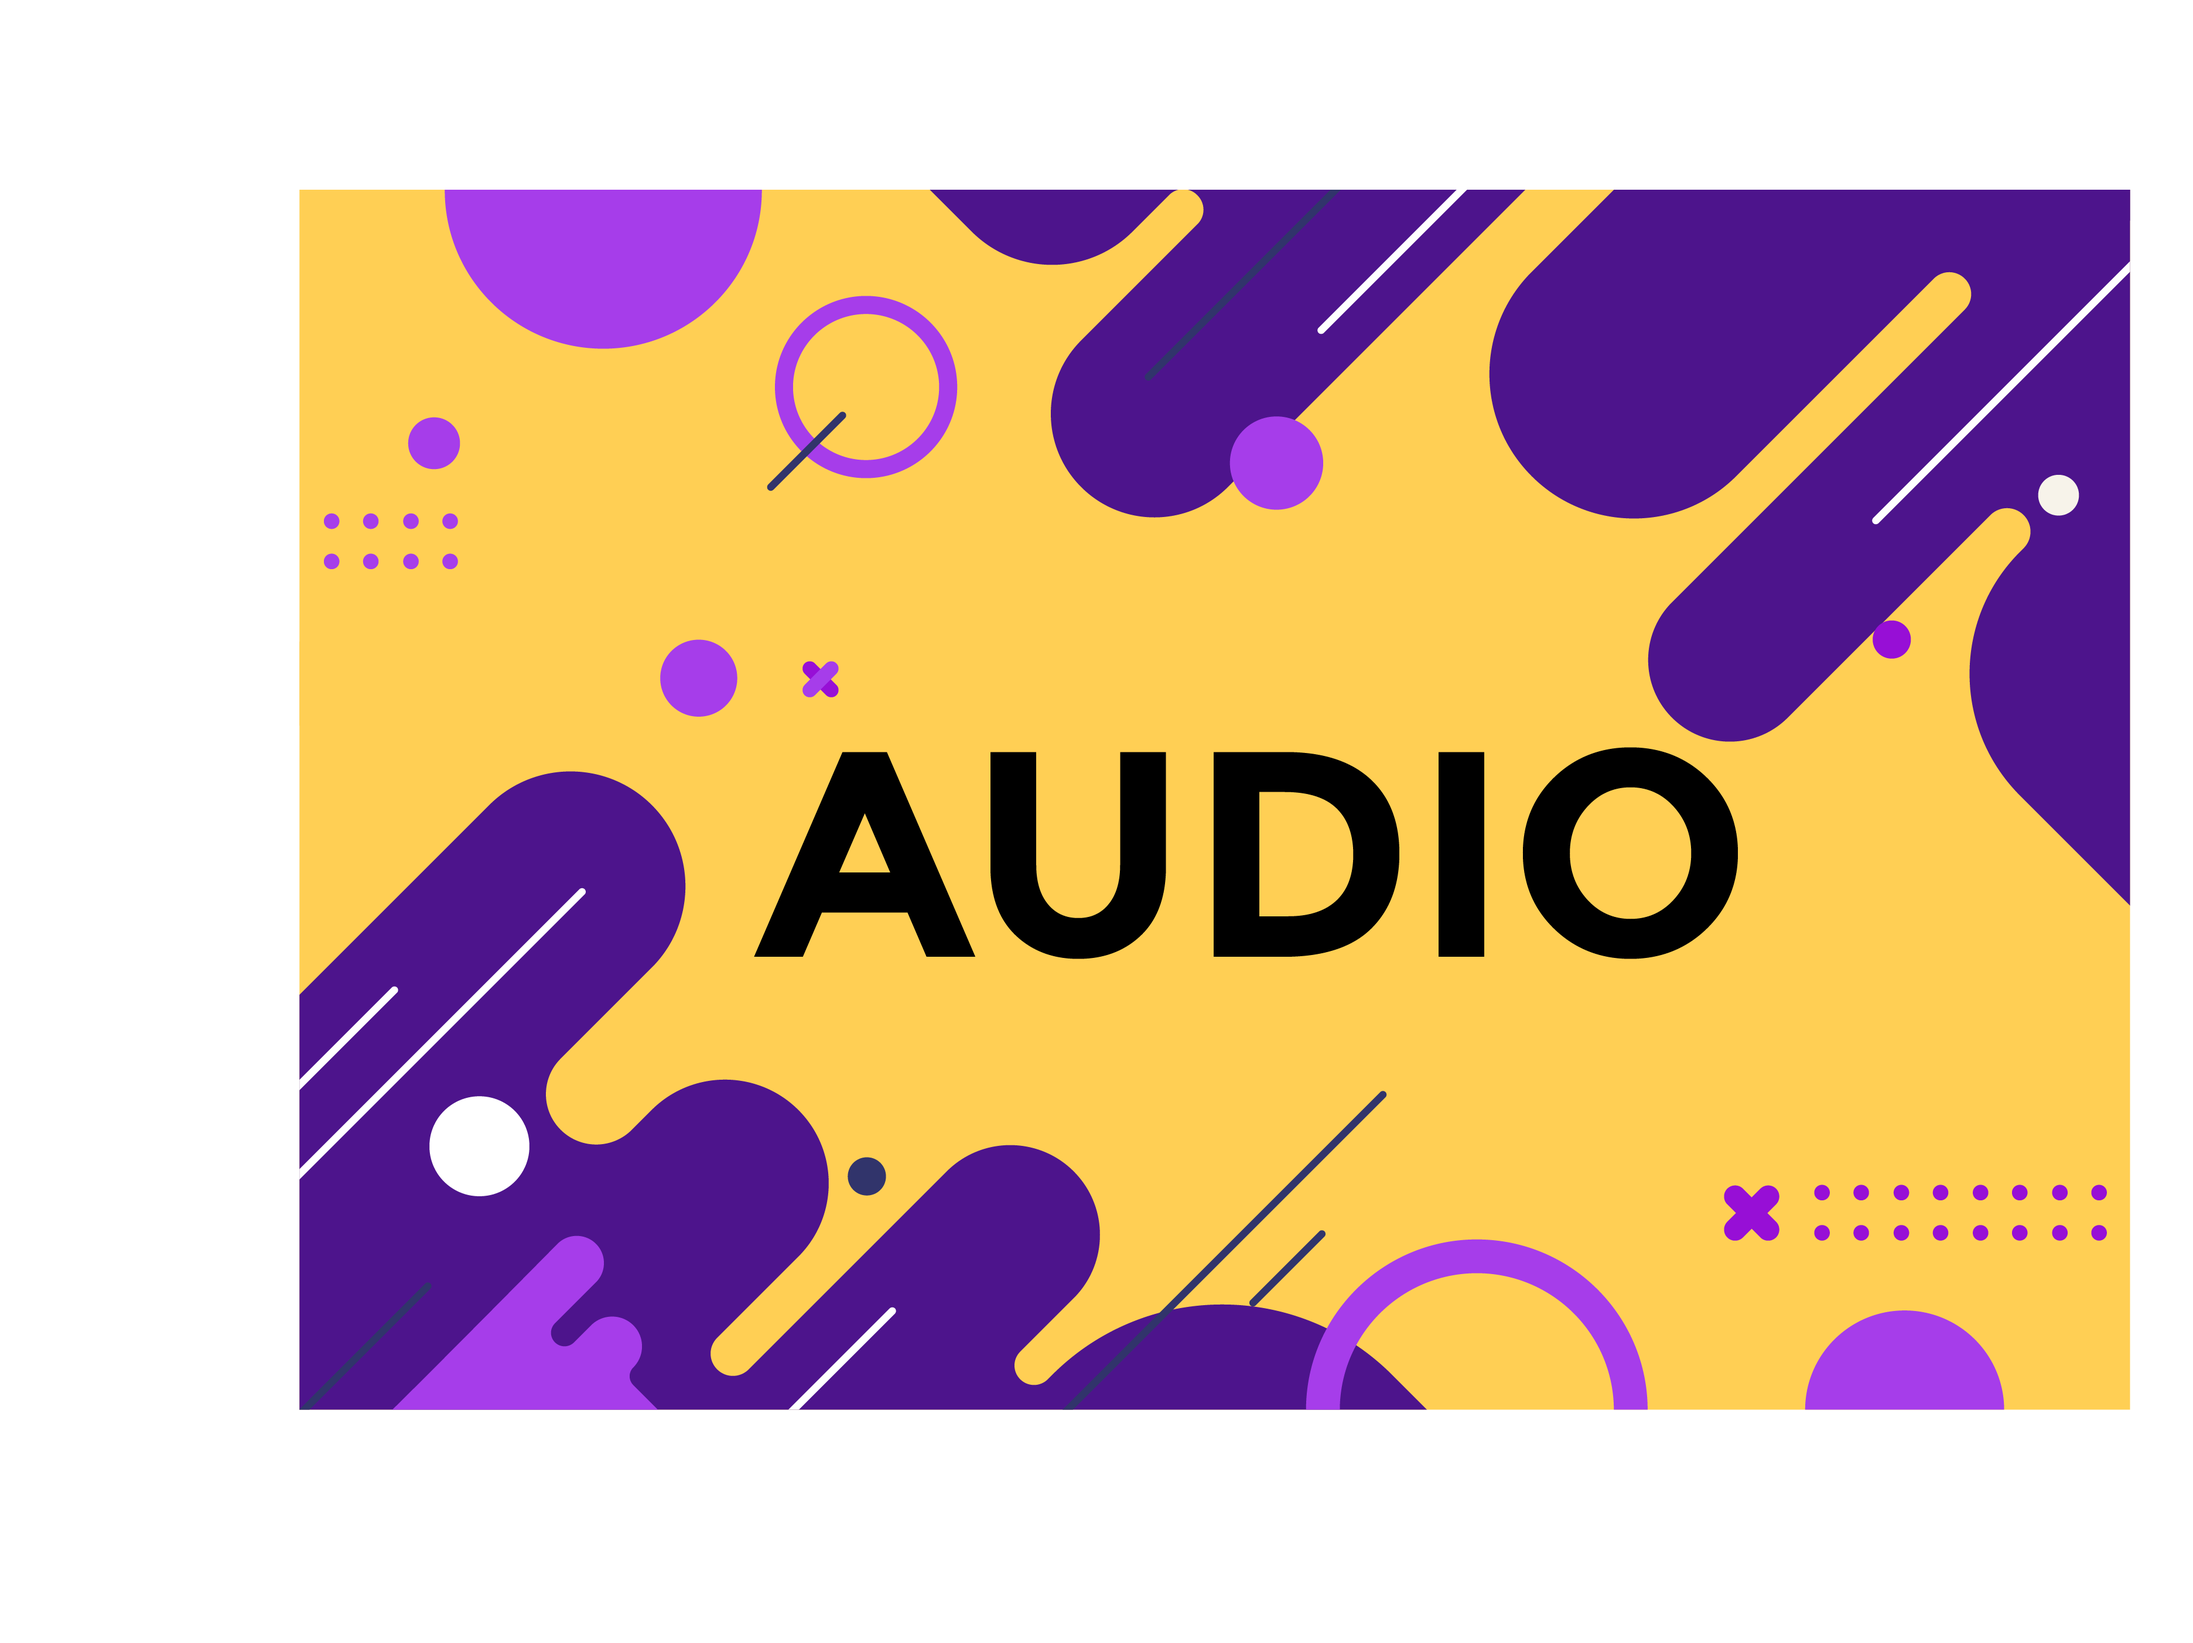
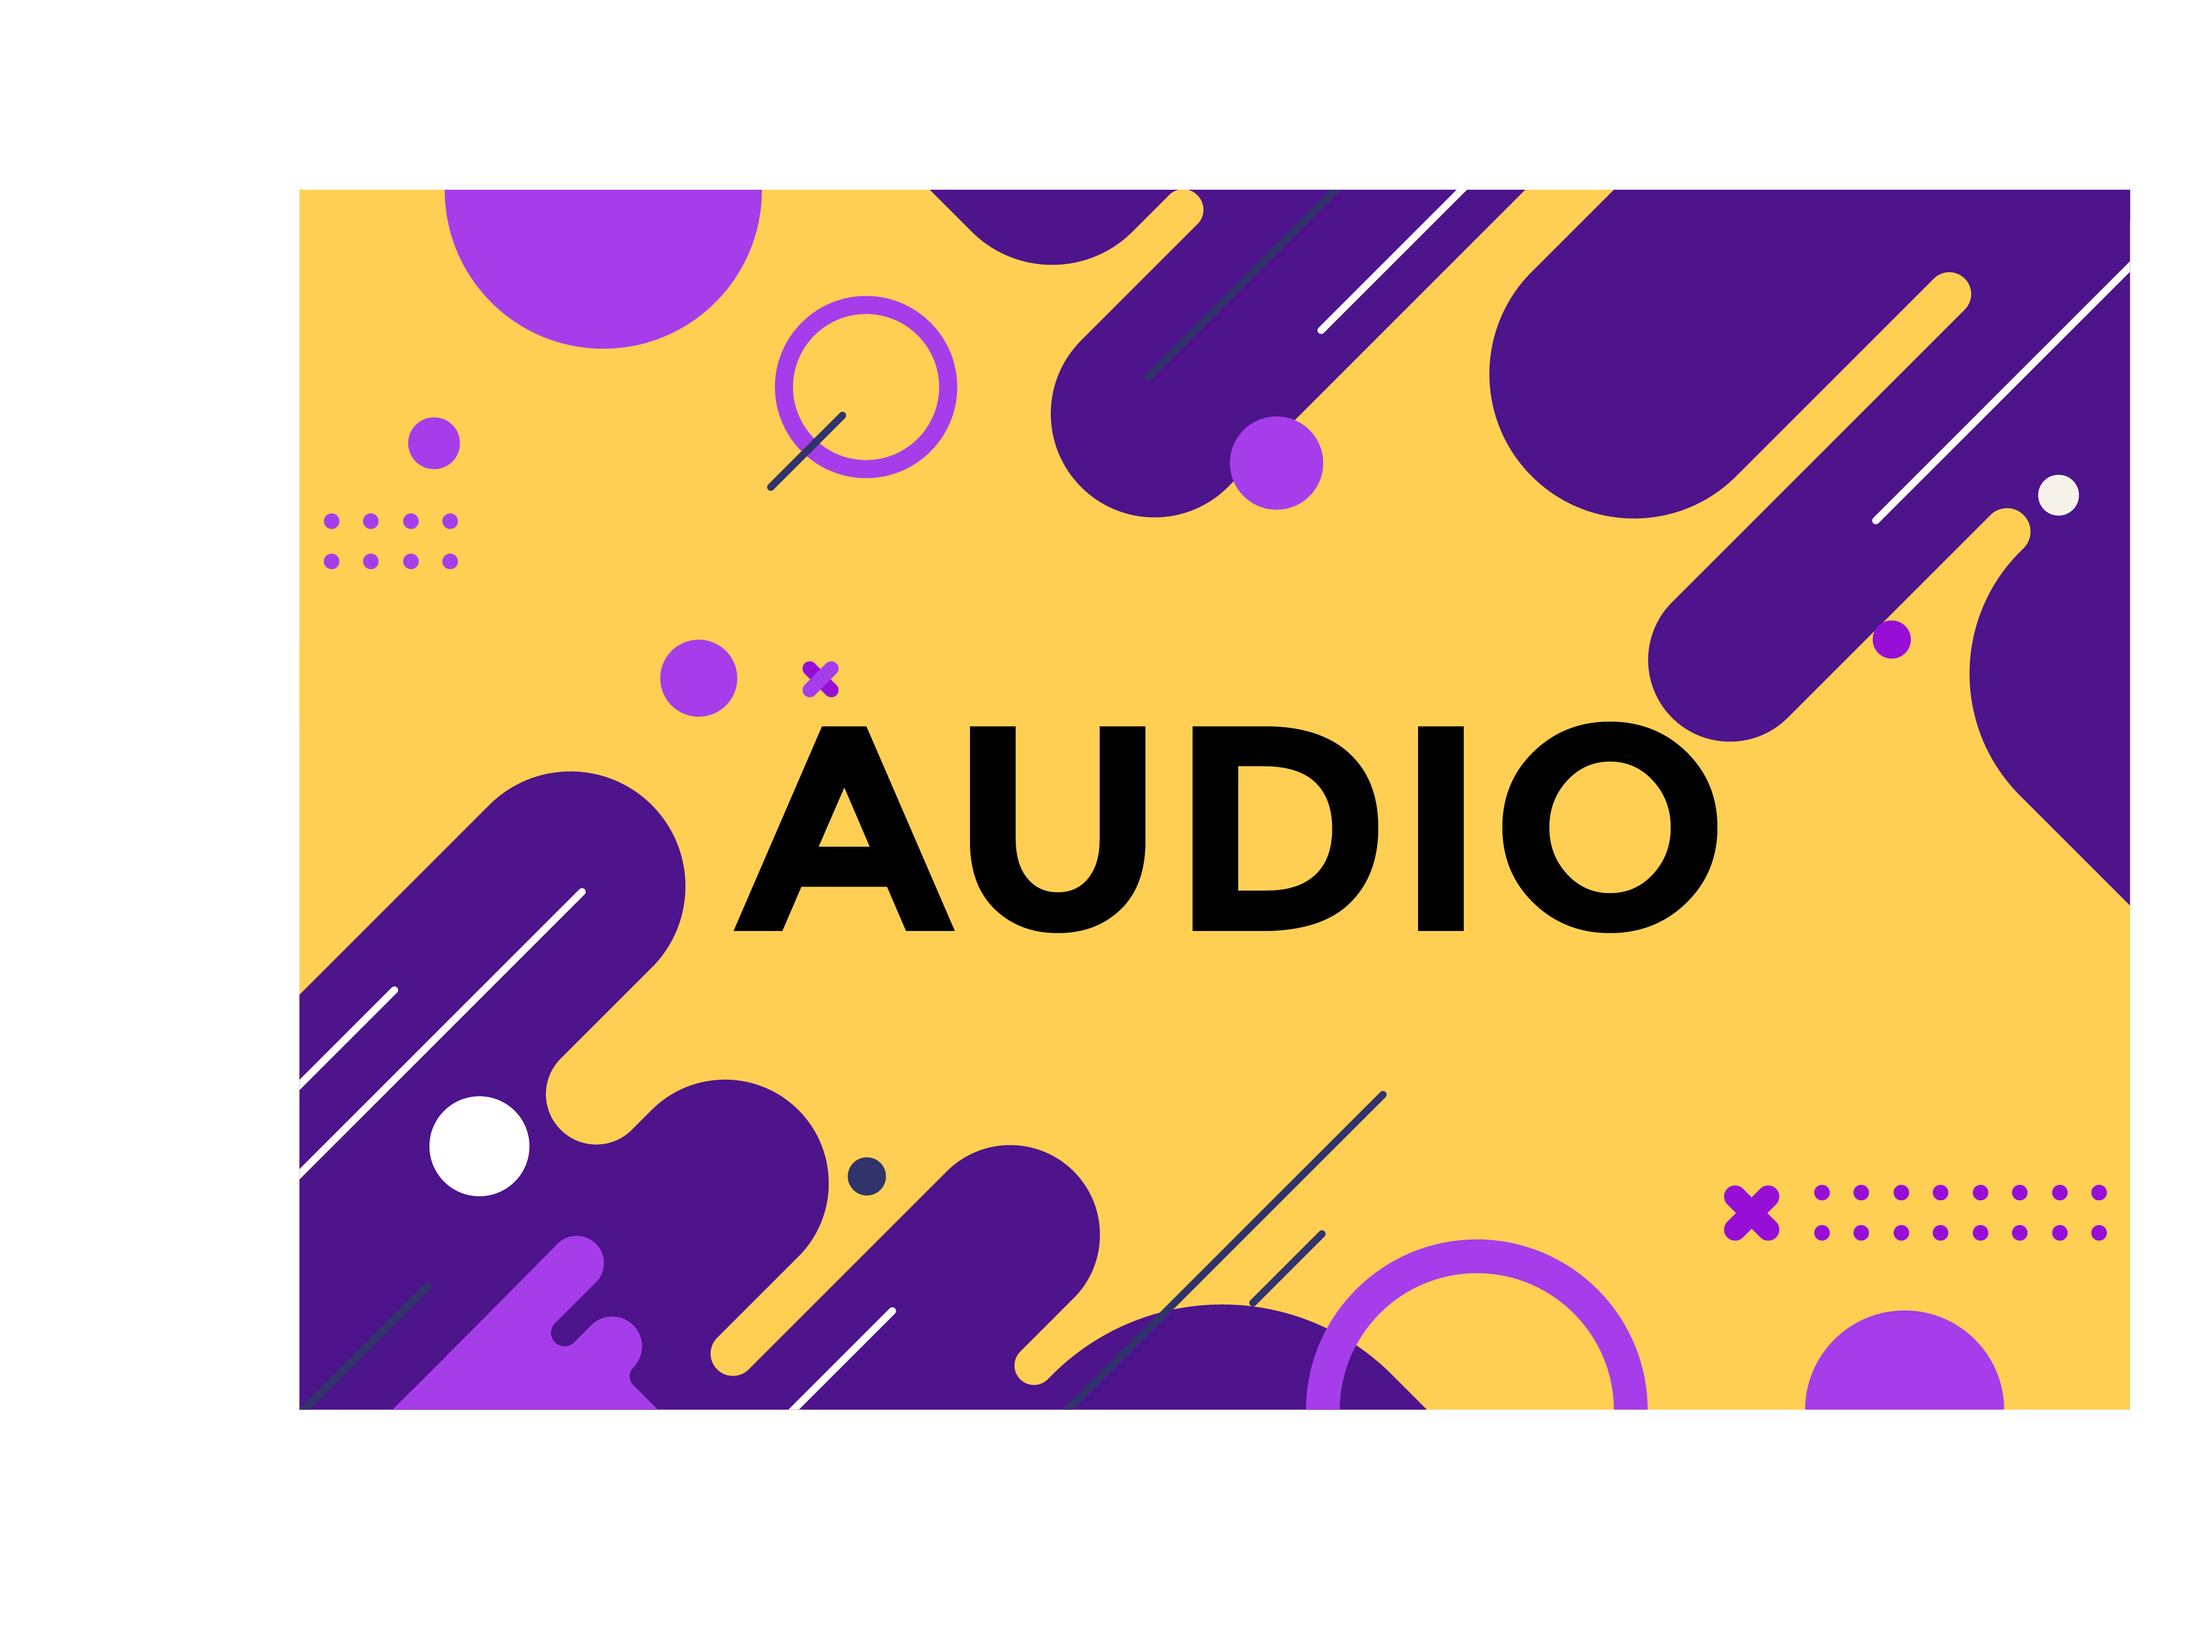
update header

Changed region(s): [[0.3438, 0.4341, 0.8125, 0.5891]]

diff --git a/resources/views/audio/index.blade.php b/resources/views/audio/index.blade.php
@@ -13,7 +13,7 @@
     {{-- <video id="background-video" autoplay loop muted poster="kota.png">
         <source src="header/hAudio.png" type="video/mp4" />
     </video> --}}
-    <img class="w-100" src="header/AUDIO ok.png" alt="" srcset="">
+    <img class="w-100" src="header/hAudio.png" alt="" srcset="">
 </div>
 <!-- akhir jumbotrom -->
 

diff --git a/resources/views/video/index.blade.php b/resources/views/video/index.blade.php
@@ -11,7 +11,7 @@
 <!-- awal jumbotron -->
 <div class="banner">
     <video id="background-video" autoplay loop muted poster="kota.png">
-        <source src="img/VIDEO.mp4" type="video/mp4" />
+        <source src="img/hVideo.png" type="video/mp4" />
     </video>
 </div>
 <!-- akhir jumbotrom -->
